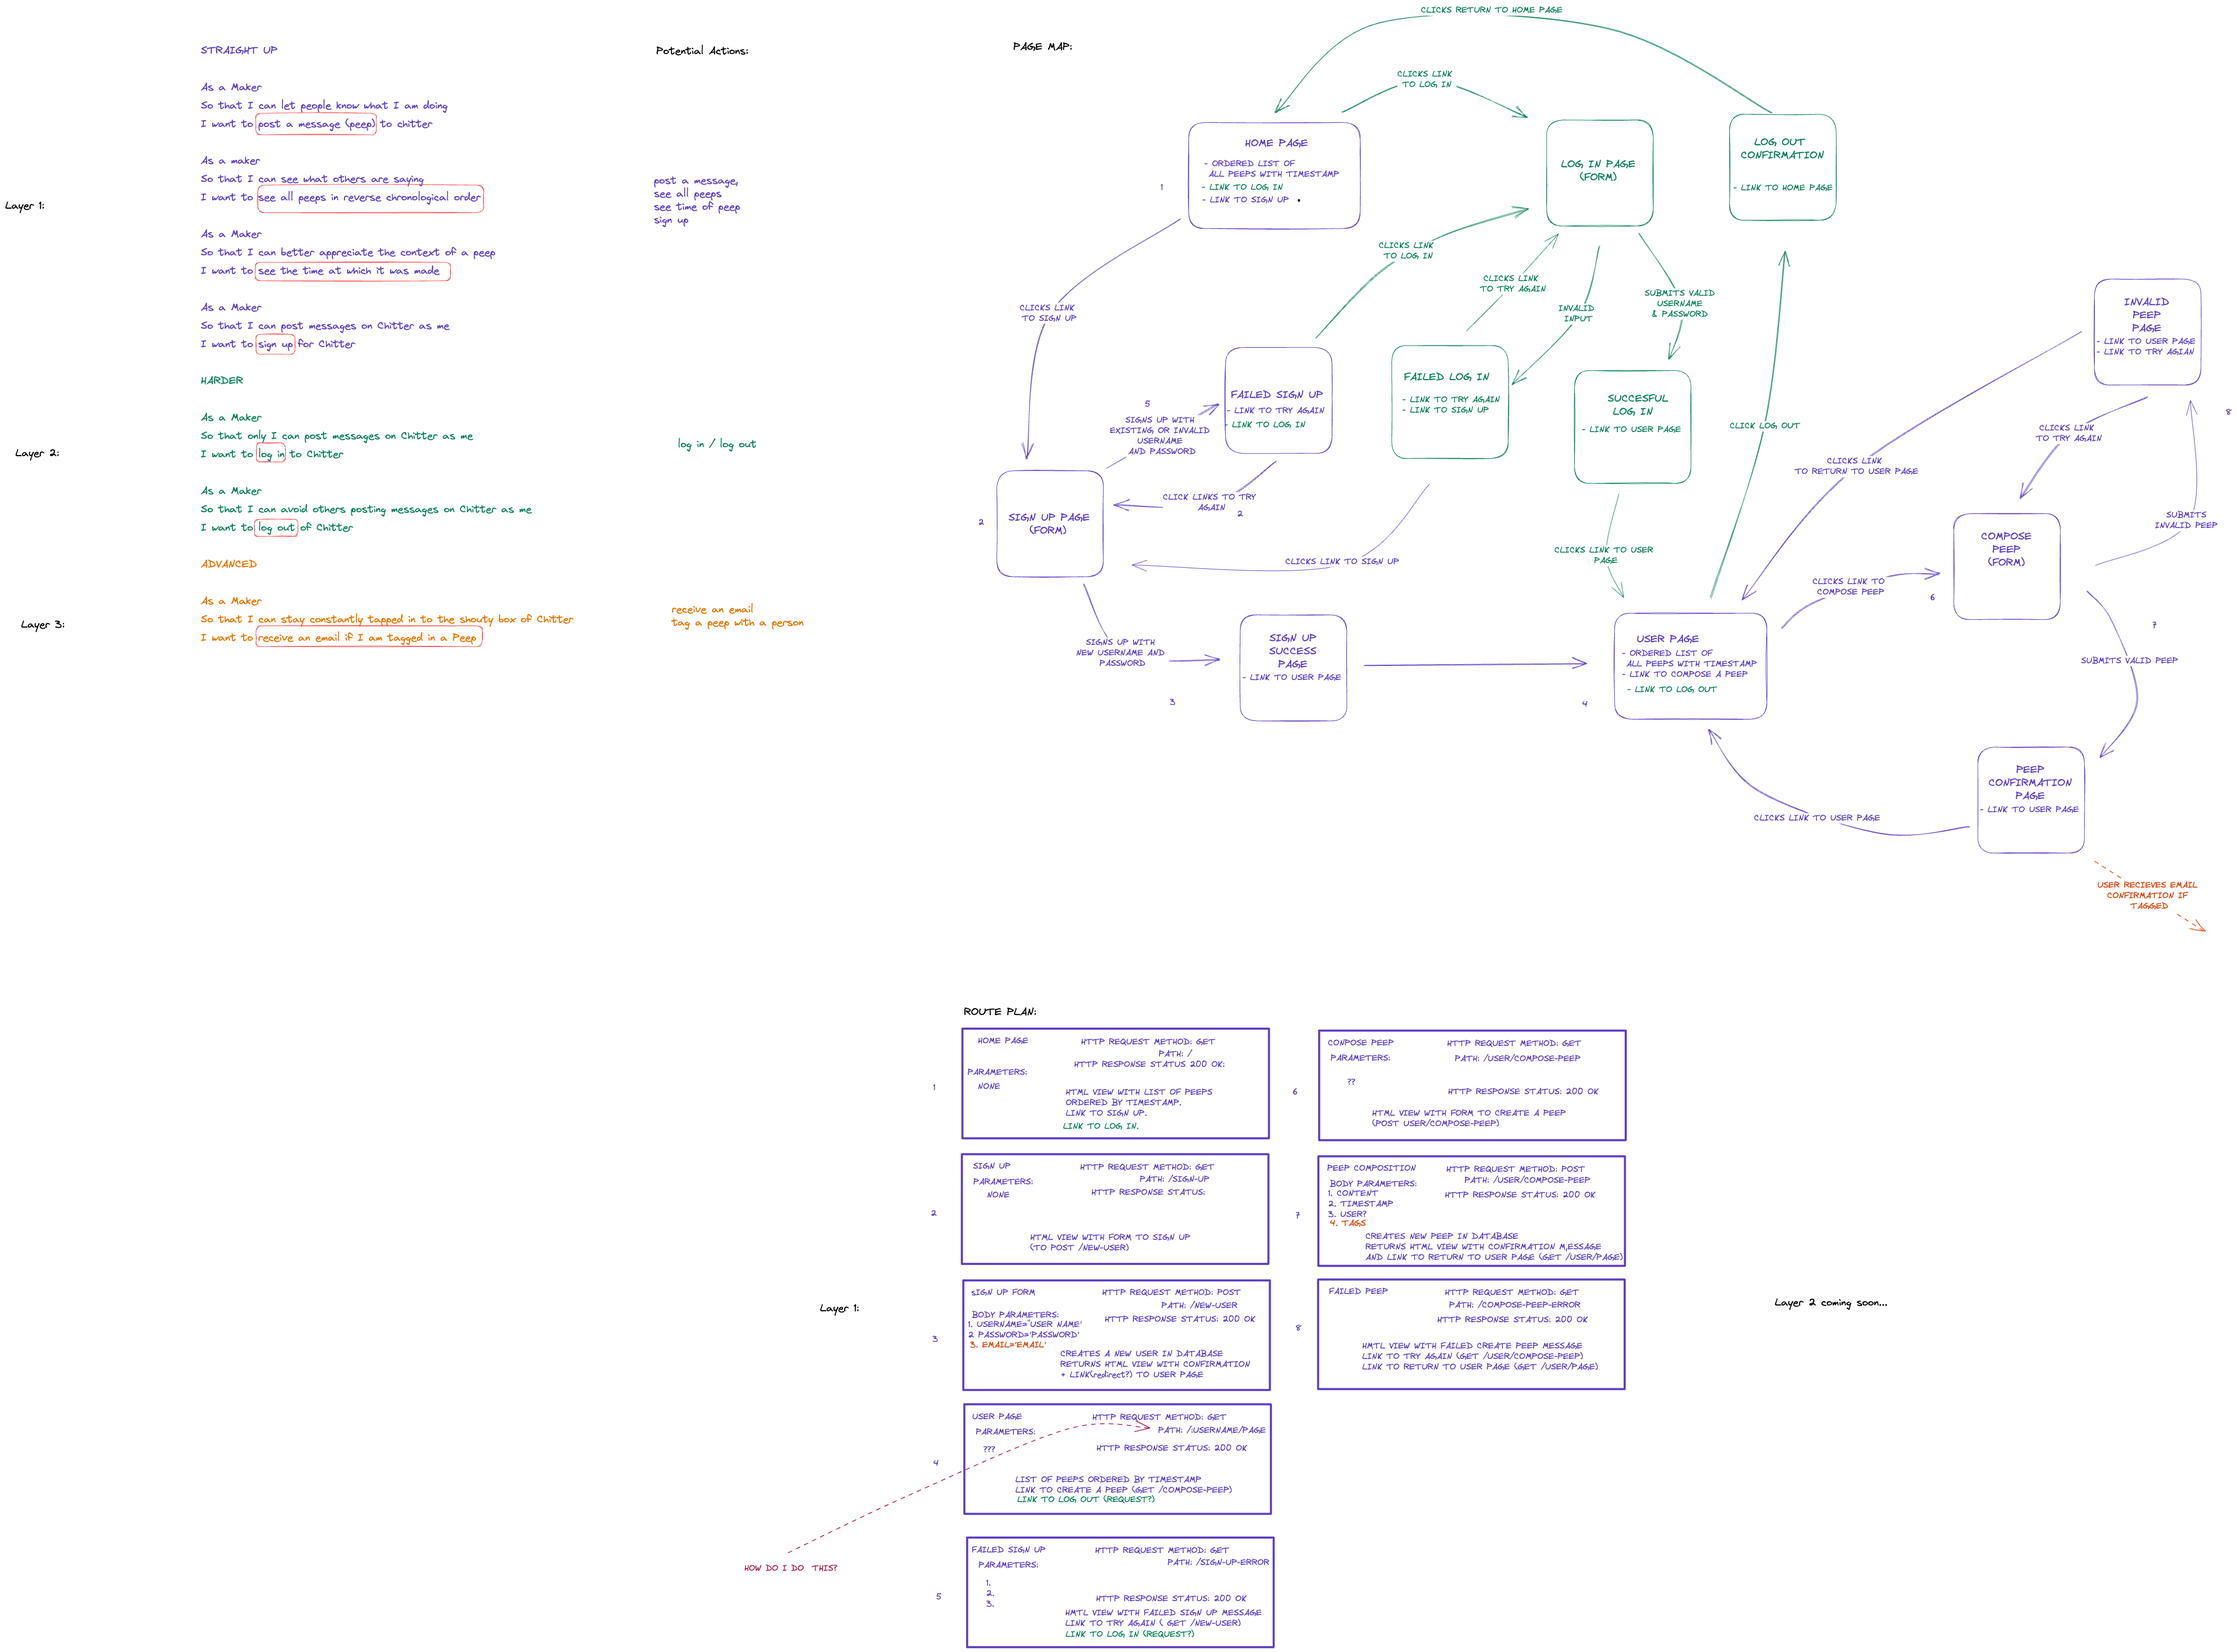
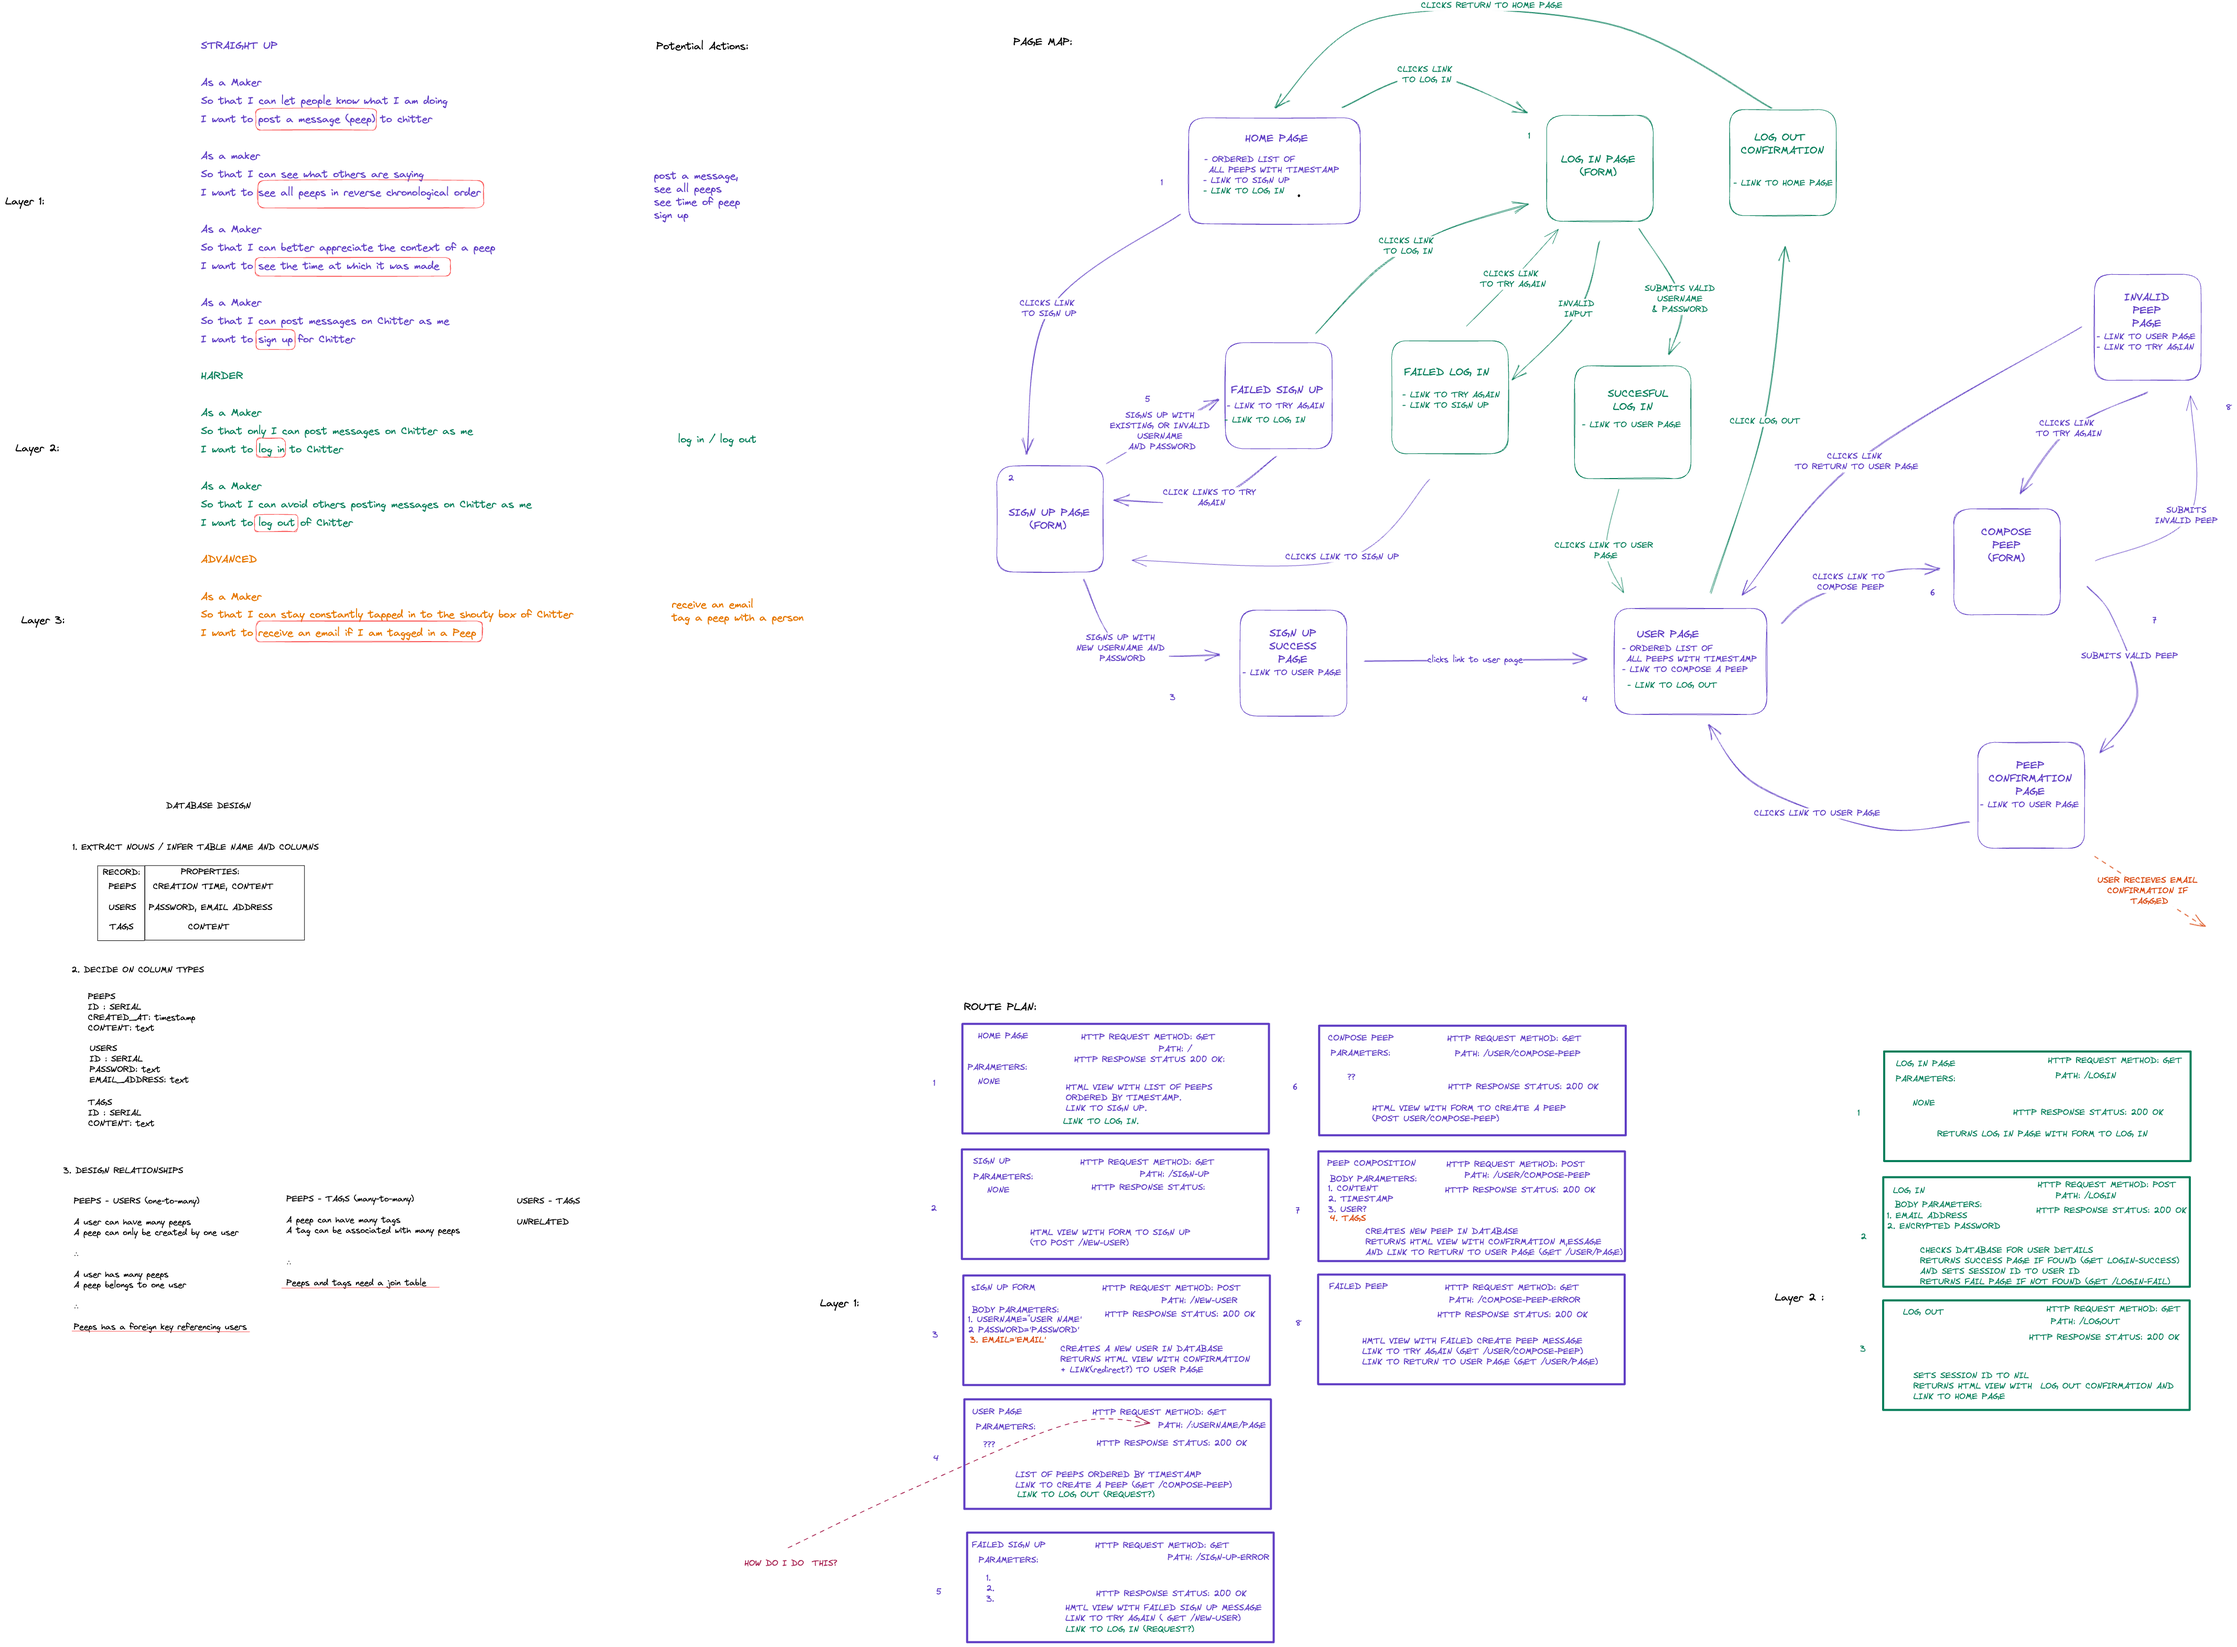
designed activerecord tables

diff --git a/design/table_migration_design.rb b/design/table_migration_design.rb
@@ -1,0 +1,41 @@
+# these are based on 
+# 1) database design 
+# 2) database design 
+# 3) database design 
+
+
+class PeepsTable <ActiveRecord::Migration[7.0]
+  def change
+    create_table :peeps do |t|
+      t.string :text
+      # below adds two columns that are automatically populated: created_at, updated_at
+      t.timestamps
+    end
+
+    add_foreign_key :peeps, :users, name: :fk_user,  on_delete: :cascade
+  end
+end
+
+class UsersTable <ActiveRecord::Migration[7.0]
+  def change
+    create_table :users do |t|
+      t.string :password
+      t.string :email_address
+    end
+  end
+end 
+
+
+class TagsTable <ActiveRecord::Migration[7.0]
+  def change
+    create_table :tags do |t|
+      t.content :password
+    end
+  end
+end
+
+class PostsTagsJoinTable <ActiveRecord::Migration[7.0]
+  def change
+    create_join_table(:posts, :tags)
+  end
+end 
